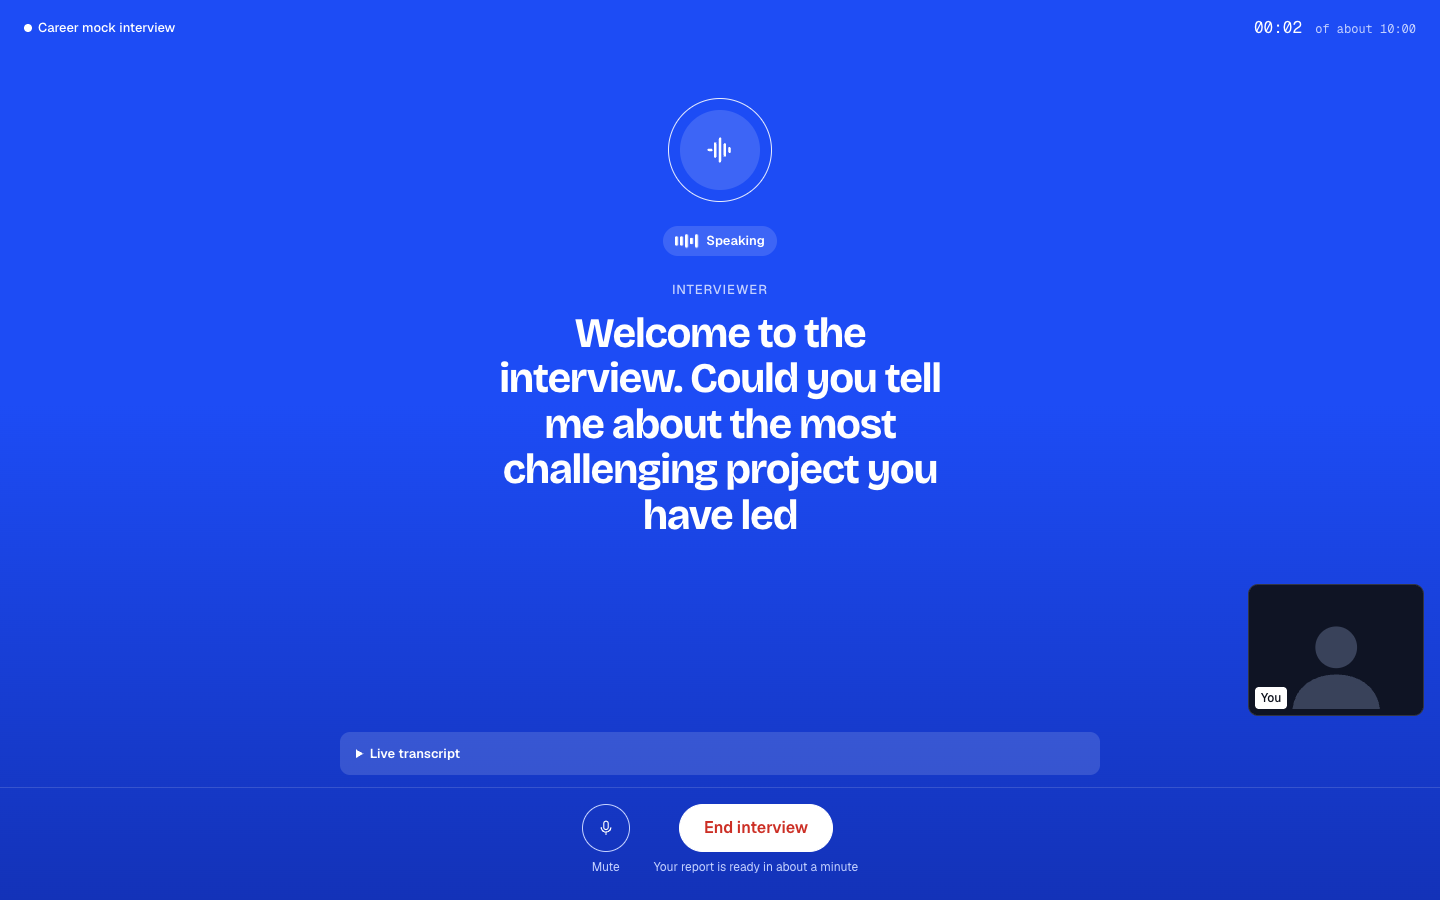
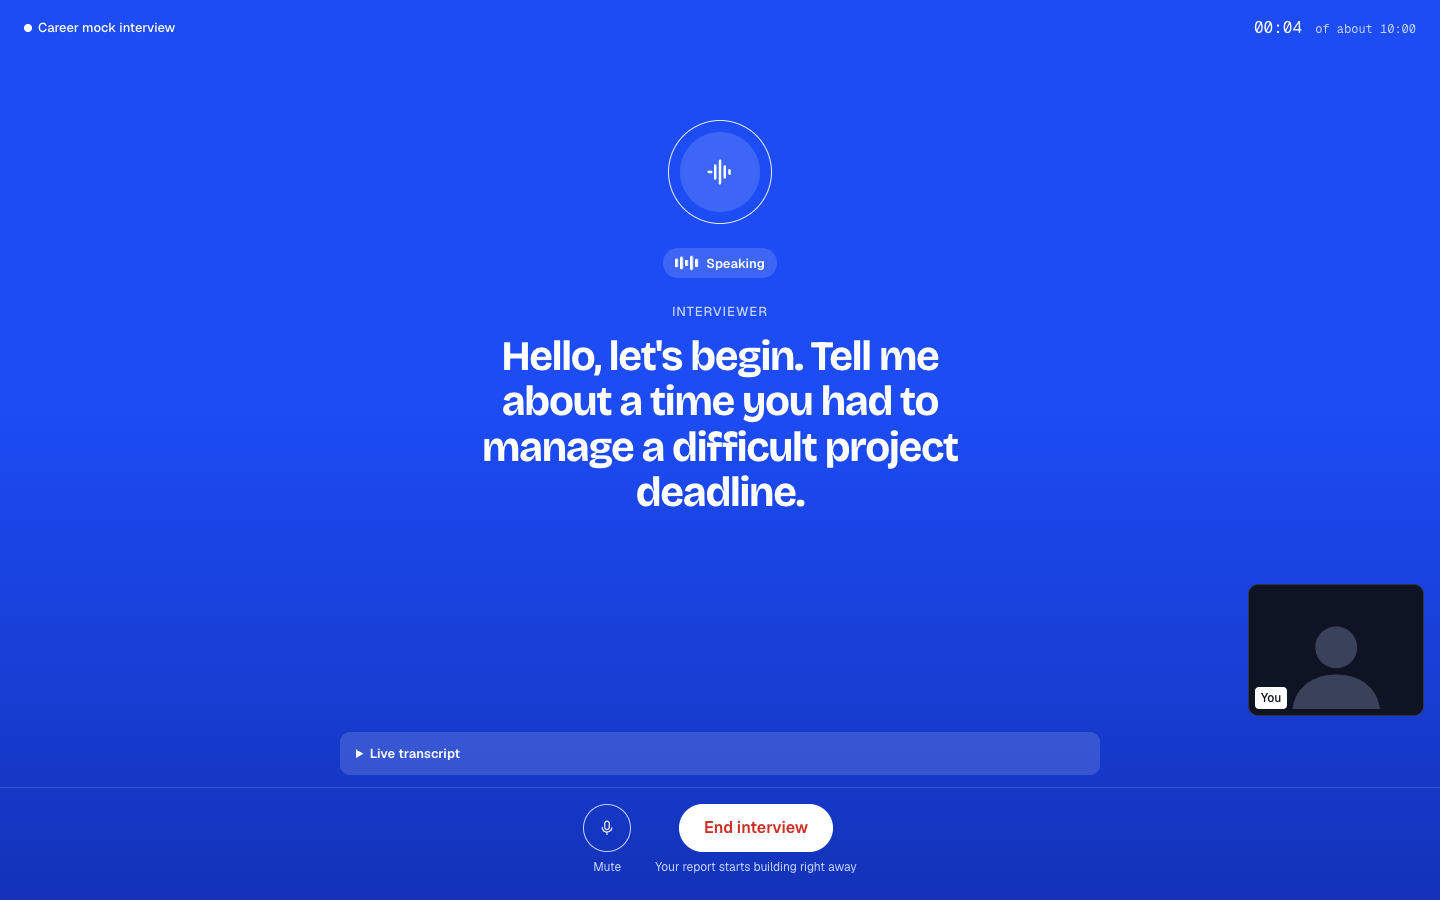
README: new screenshots, remove old Monet images, fix deployment and report text
- Screenshots retaken: landing, setup, live interview, and a sample report (loading and finished)
- Removed the May 2026 screenshots and the GitHub Pages deployment section (not deployed, wrong URL); replaced with the real status and plan
- Report is streamed; button is "End interview"; ffmpeg listed as a prerequisite; quota and saved-runs notes

Claude-Session: https://claude.ai/code/session_011cQ7JapEPgixpTqtUomf88

diff --git a/README.md b/README.md
@@ -10,9 +10,13 @@ An interview practice tool with a live voice interviewer. It asks about your res
 | --- | --- |
 | ![Setup](docs/screenshots/setup.png) | ![Live interview](docs/screenshots/live.png) |
 
-![Report](docs/screenshots/report.png)
+The report opens as soon as the interview ends and fills in as results arrive. Both screenshots below use a sample report with example data:
 
-**How a session goes:** open the landing page, add your resume (optional) and pick a track on one setup screen, then talk with the live interviewer. When you end the call you get a report. Practicing a single question is still available from a link on the landing page.
+| While it is being built | Finished |
+| --- | --- |
+| ![Report while loading](docs/screenshots/report-loading.png) | ![Finished report](docs/screenshots/report.png) |
+
+**How a session goes:** open the landing page, add your resume (optional) and pick a track on one setup screen, then talk with the live interviewer. When you end the call, the report page opens at once and fills in as each answer is scored. Practicing a single question is still available from a link at the bottom of the landing page.
 
 ## Features
 - Three tracks: Academic, Career, Social.
@@ -20,7 +24,8 @@ An interview practice tool with a live voice interviewer. It asks about your res
 - Evidence-based feedback: every item cites a timestamp plus a transcript quote or a measured signal.
 - One main path: Landing, then Setup (resume, track, mic and camera check on one screen), then the live interview, then the report.
 - Live interview: a spoken interview with Gemini Live. Questions come from your resume; the interviewer follows up on your answers; you can interrupt it.
-- Whole-interview report: an overall score plus feedback for each question.
+- Whole-interview report: the three most useful fixes first, a timeline linked to the recording, then feedback for each question. It streams in as it is built.
+- Every run is saved locally (see Saved runs).
 - Face signals measured in the browser; video never leaves the device.
 
 ## What problem this solves
@@ -83,7 +88,7 @@ Gemini's own latency varies a lot from run to run. `tests/test_session_stream.py
 
 **Turn-taking.** The interviewer treats 2.5 s of silence as the end of an answer (LIVE_SILENCE_MS). Longer thinking pauses can still make it start talking; when you continue speaking it stops (barge-in). Raise the value if it cuts people off.
 
-**Report.** Your mic is also recorded in the browser on the same clock as the session. After "End & get report", the recording, the interviewer's turns (with times) and the on-device camera numbers go to /api/session_report. Each answer (from the end of one question to the start of the next) is cut out and transcribed on its own, then scored with the same evidence pipeline. A separate pass produces the overall summary (overall score with coverage, top 2 strengths, top 2 improvements, each with timestamps). Eye contact and presence are shown only in the summary. A question the candidate talked over (interrupted) does not start a new answer.
+**Report.** Your mic is also recorded in the browser on the same clock as the session. After "End interview", the recording, the interviewer's turns (with times) and the on-device camera numbers go to /api/session_report/stream. Each answer (from the end of one question to the start of the next) is cut out and transcribed on its own, then scored with the same evidence pipeline. A separate pass produces the overall summary (overall score with coverage, top 2 strengths, top 2 improvements, each with timestamps). Eye contact and presence are shown only in the summary. A question the candidate talked over (interrupted) does not start a new answer.
 
 **Model choice** (one run each, same synthetic answer, via tests/live_smoke.py):
 
@@ -107,6 +112,8 @@ gemini-3.8-live was chosen for the fastest follow-up. Across 6 runs of gemini-3.
 node src/signals/aggregate.test.mjs
 node src/signals/faceSignals.test.mjs
 ./.venv/bin/python tests/test_session.py     # offline: splitting a live session into answers
+./.venv/bin/python tests/test_session_stream.py   # offline: event order and the top-three-fixes rule
+GEMINI_API_KEY=offline-placeholder ./.venv/bin/python tests/test_store.py   # offline: every run is saved
 ./.venv/bin/python tests/live_smoke.py       # real Live API: token route -> interview -> follow-ups -> session report
 node src/live/liveSession.test.mjs
 ./.venv/bin/python eval/run_eval.py --selftest   # offline
@@ -127,12 +134,15 @@ Current results:
 - The live interview has only been tested with a simulated mic and camera (this build environment cannot open real devices). Test it with a real mic and headphones before a demo.
 - Safari may block audio that starts after the network calls; tested in Chrome only.
 - Long thinking pauses (over 2.5 s) can make the interviewer start talking; it stops when you continue.
-- Feedback takes about 30 s per answer; a whole-interview report took 32-64 s in tests.
+- Speed depends on Gemini's load. A whole-interview report took 32-64 s before the speed changes. After turning thinking off it took 9-40 s on a synthetic 3-answer interview, and the page shows results as they arrive.
+- The free Gemini tier allows about 20 requests per day per model per key (one report takes about 7), so a shared link needs a paid key.
+- Saved runs include recordings and resume text; add a consent notice and a retention rule before opening this to other people.
+- The streamed report page was tested against a mock server and with a real live session, but not yet with a full real-microphone interview followed by a real report.
 - The test fixtures are synthetic (macOS text-to-speech), not real candidates.
 
 ## Credits
 
-The original camera/live-interview prototype (public/camera.html) was built by a teammate during the hackathon; the evidence-based pipeline was added in the multimodal-upgrade branch. The live interviewer and whole-interview report were added in the live-interviewer branch.
+The original camera/live-interview prototype (public/camera.html) was built by a teammate during the hackathon; the evidence-based pipeline was added in the multimodal-upgrade branch. The live interviewer and whole-interview report were added in the live-interviewer branch. The product-polish branch added the single main flow, the white and blue design, the streamed report and saved runs.
 
 ## 🚀 Getting Started
 
@@ -141,6 +151,7 @@ Follow these steps to set up the project locally.
 ### Prerequisites
 - **Node.js** (v16+)
 - **Python** (v3.9+) or **Conda**
+- **ffmpeg** on your PATH (pause detection and cutting answers use it)
 
 ### 1. Installation
 
@@ -211,33 +222,20 @@ Open **http://localhost:5173** in your browser to begin!
 
 ---
 
-## 🌍 Public Deployment (GitHub Pages)
+## Deployment
 
-This repo is configured to deploy automatically to GitHub Pages when changes are pushed to the `main` branch. After the workflow completes, the live site will be available at:
+This runs locally today. It is not deployed. GitHub Pages cannot host it, because the Flask backend needs ffmpeg and your API key.
 
-**https://fushanbobfan.github.io/Gemini-Hackathon/**
-
-If you fork the repo, update the `base` path in `vite.config.js` and use the corresponding GitHub Pages URL for your account.
-
-### ✅ One-time setup on GitHub
-1. Push this branch (`main`) to GitHub.
-2. In the GitHub repo, go to **Settings → Pages**.
-3. Under **Build and deployment**, set **Source** to **GitHub Actions**.
-
-### 🚀 Deploy (every time you want a new build)
-1. Commit and push changes to the `main` branch.
-2. Wait for **Actions → Deploy to GitHub Pages** to finish.
-3. Open the live URL: **https://fushanbobfan.github.io/Gemini-Hackathon/**
+The plan for a public link is the frontend on Vercel and the backend on Google Cloud Run, with daily limits per IP and for the whole site. The reasons, limits and settings are written down in `docs/product-polish/spec.md`, section 6. Point the frontend at a deployed backend with `VITE_API_BASE`.
 
 ---
 
 ## 📂 Project Structure
 
 - **src/**: React frontend source code.
-  - `App.jsx`: Switches between screens (landing, setup, live, report, practice) and holds shared inputs.
+  - `App.jsx`: Switches between screens (landing, setup, live, report, practice), holds the shared inputs, and reads the streamed report.
   - `src/screens/`: `Landing.jsx`, `Setup.jsx`, `QuickPractice.jsx`, with `screens.css` and `session.css`.
   - `src/components/LiveInterview.jsx` and `SessionReport.jsx`: the live call (starts when the screen opens) and the whole-interview report.
-  - `src/App.jsx` also reads the streamed report and passes it to `SessionReport.jsx` as it arrives.
   - `src/index.css`: Design tokens (white and cobalt blue) and shared buttons. The design is specified in `docs/product-polish/`.
   - `src/signals/`: Browser-side face measurement (`faceSignals.js`, `aggregate.js`).
   - `src/components/EvidenceFeedback.jsx`: Evidence-based feedback display.
@@ -247,28 +245,21 @@ If you fork the repo, update the `base` path in `vite.config.js` and use the cor
   - `audio_metrics.py`: Pauses and noise (SNR).
   - `text_metrics.py`: Pace and filler words.
   - `interpret.py`: Gemini interpretation and evidence checks.
-- **tests/**: Offline and smoke tests (`test_session_stream.py`, `test_store.py` run without any API call).
-- **pipeline/store.py**: Saves every run (see Saved runs).
+  - `session.py`: Whole-interview report (splits the recording into answers, runs them in parallel, emits progress events).
+  - `store.py`: Saves every run (see Saved runs).
+- **tests/**: Offline and smoke tests.
 - **eval/**: Evaluation runner and fixtures (`eval/README.md`).
 - **backend.py**: Flask server handling AI connectivity.
 - **public/camera.html**: Standalone Live Interview module.
 - **AudioTesting/** & **CamTest/**: Legacy testing modules.
 - **docs/product-polish/**: Product spec, design system, and a clickable design demo for the redesign.
 - **docs/screenshots/**: Screenshots used in this README.
+- **data/**: Saved runs and recordings (created on first run, gitignored).
 
 ## 🛠 Troubleshooting
 
 - **Ports**: Frontend uses `5173`, Backend uses `5002`. Ensure these ports are free.
 - **API Key**: If AI feedback fails, check that your `GEMINI_API_KEY` is correct in `.env`.
+- **Quota (429)**: The free tier allows about 20 requests per day per model per key. When every key is out, the backend falls back to other models, which is slower. Add keys or use a paid key.
 - **Microphone/Camera**: Allow browser permissions for recording to work.
 - **ffmpeg**: Must be installed and on your PATH. Pause detection uses ffmpeg silencedetect.
-
-### Earlier version (May 2026 hackathon build)
-
-<img width="1307" height="730" alt="Screenshot 2026-05-29 at 23 23 24" src="https://github.com/user-attachments/assets/7ef56bfc-1791-469f-a176-cefbf03e2654" />
-<img width="1302" height="732" alt="Screenshot 2026-05-29 at 23 23 46" src="https://github.com/user-attachments/assets/f8714ec9-7e53-4cc2-bba8-7f322da9b02e" />
-<img width="1306" height="731" alt="Screenshot 2026-05-29 at 23 23 57" src="https://github.com/user-attachments/assets/9f3d1ce8-3b1b-4672-895d-651e76c849b0" />
-<img width="1302" height="732" alt="Screenshot 2026-05-29 at 23 24 16" src="https://github.com/user-attachments/assets/5deb09cf-7067-4403-b19f-815db50e7f0b" />
-<img width="1306" height="732" alt="Screenshot 2026-05-29 at 23 24 37" src="https://github.com/user-attachments/assets/703ea066-aff2-4e94-ad60-b5e1e6de5aa5" />
-<img width="1301" height="733" alt="Screenshot 2026-05-29 at 23 24 52" src="https://github.com/user-attachments/assets/e0b5ee72-703c-4587-b452-a514579529af" />
-<img width="1277" height="722" alt="Screenshot 2026-05-29 at 23 27 31" src="https://github.com/user-attachments/assets/1f45f0d2-cece-437c-9fff-a1a33a6d372c" />
